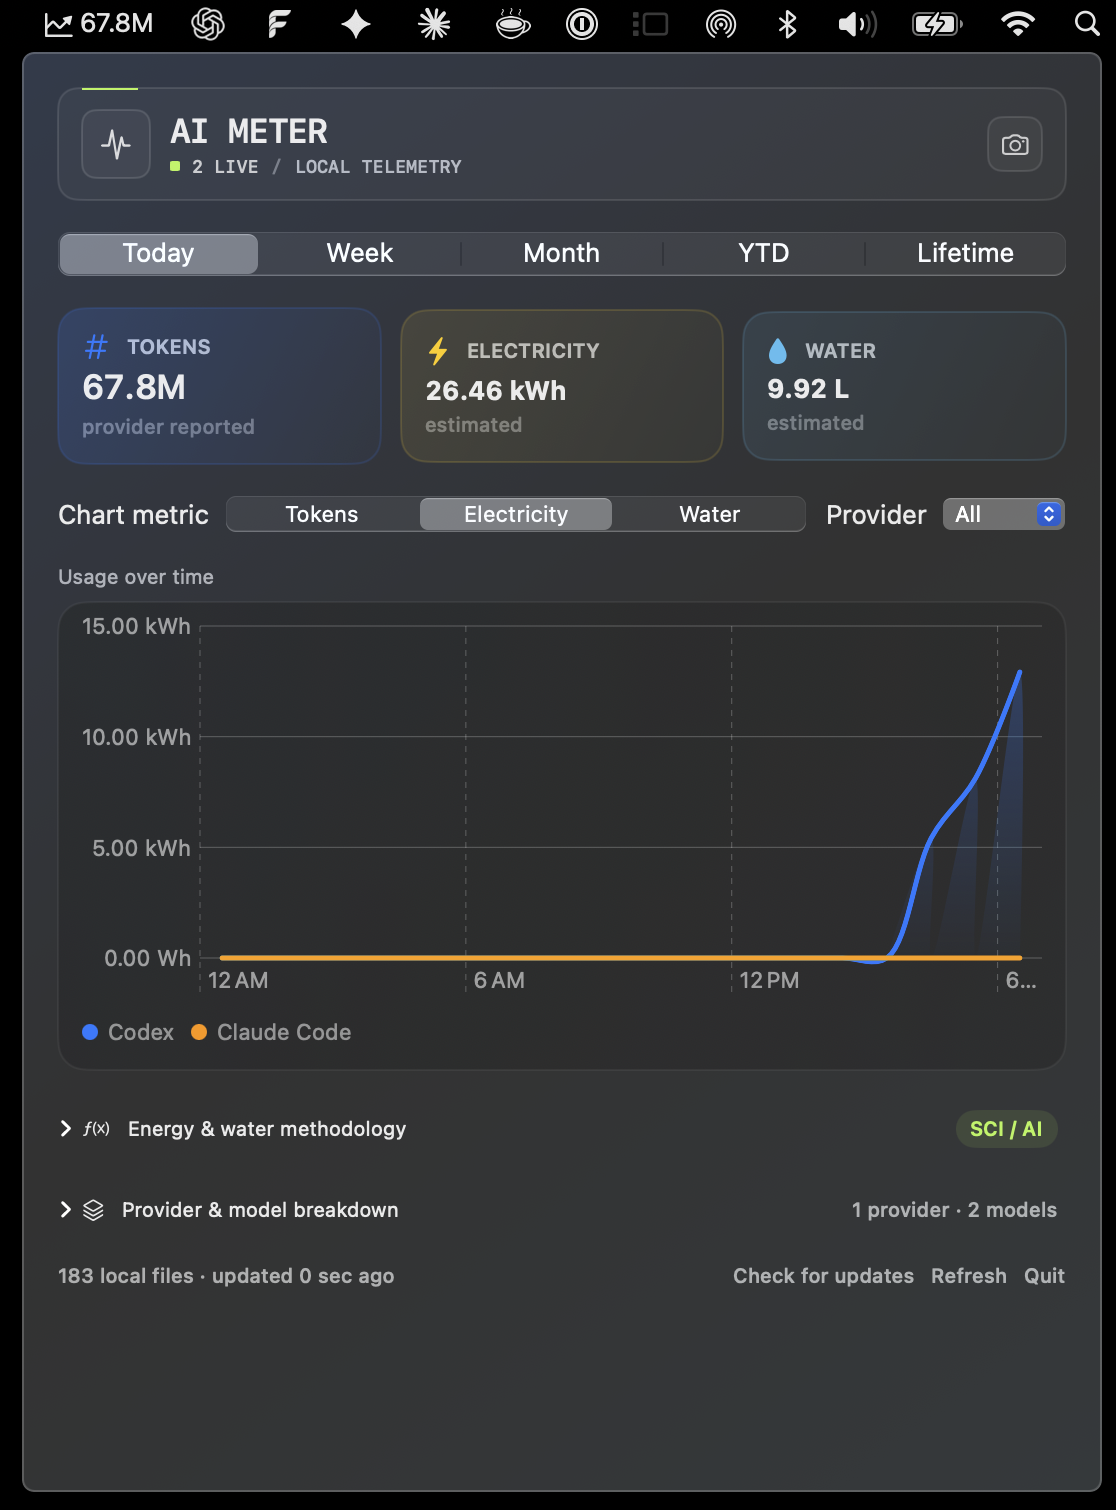
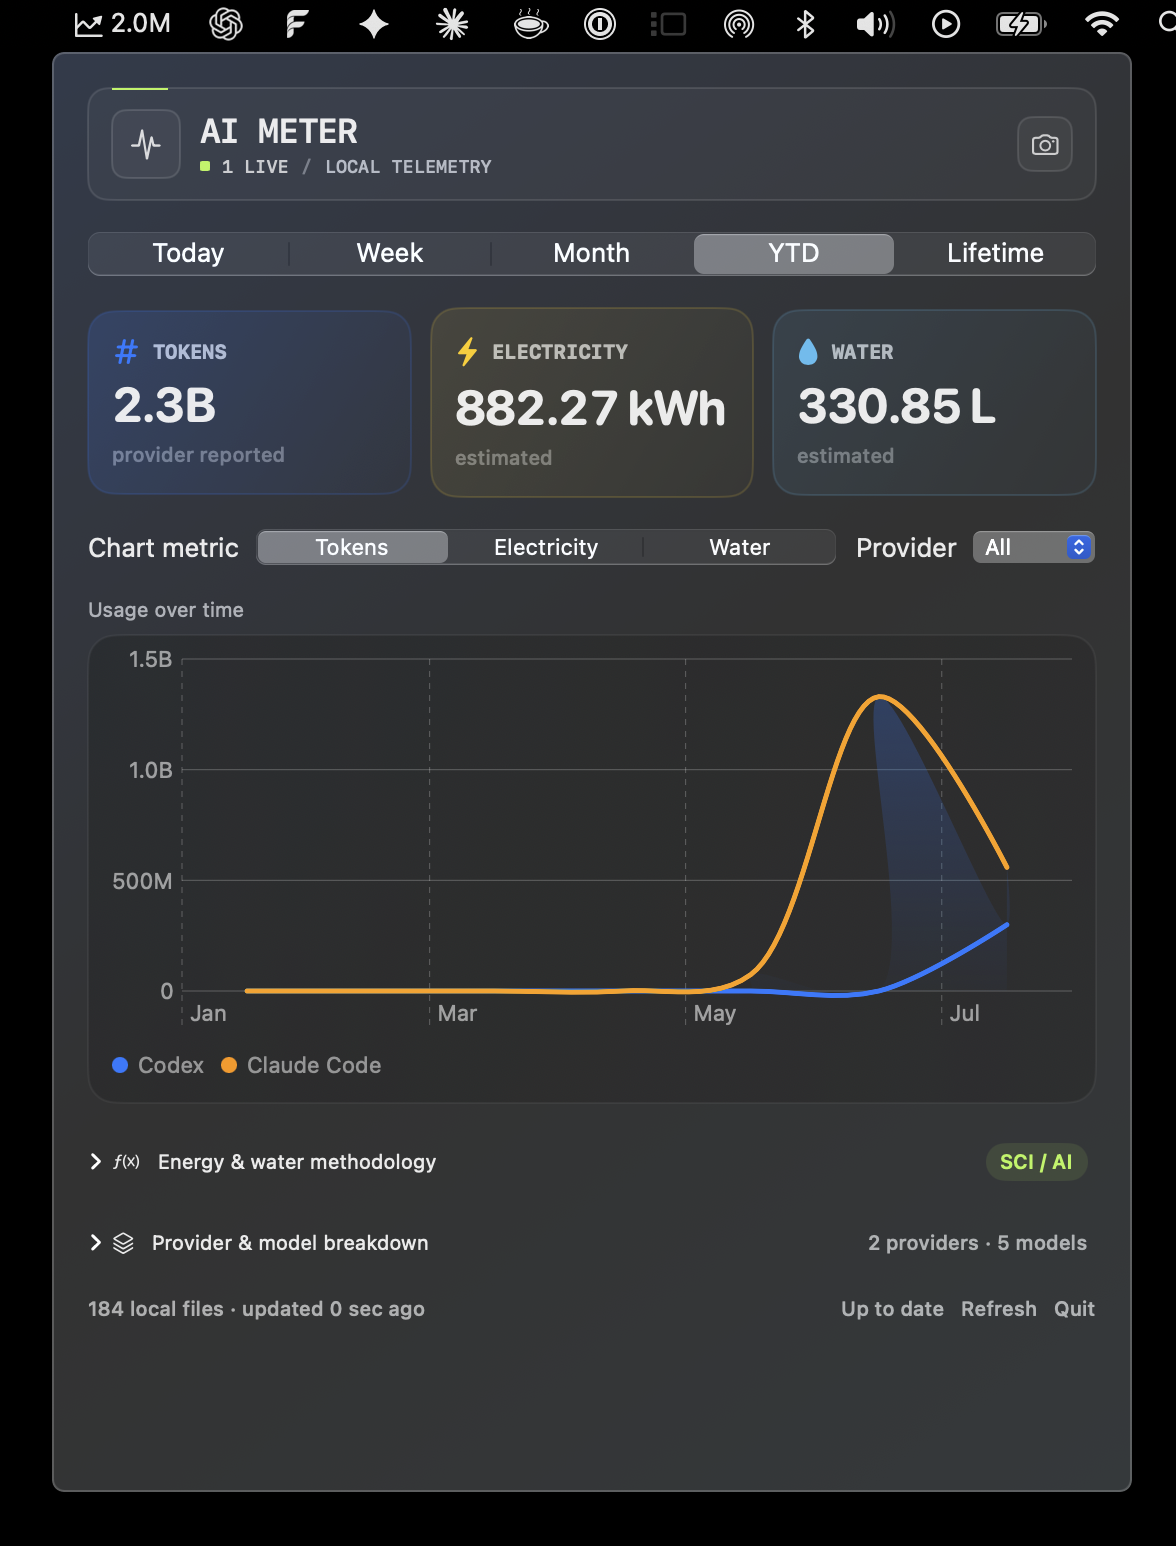
Refresh website app screenshot

diff --git a/website/app/page.tsx b/website/app/page.tsx
@@ -87,8 +87,8 @@ export default function Home() {
             <Image
               src="/ai-meter-app.png"
               alt="AI Meter macOS widget showing local token usage, electricity, water, and an interactive usage chart"
-              width={1116}
-              height={1510}
+              width={1176}
+              height={1546}
               priority
             />
           </div>
